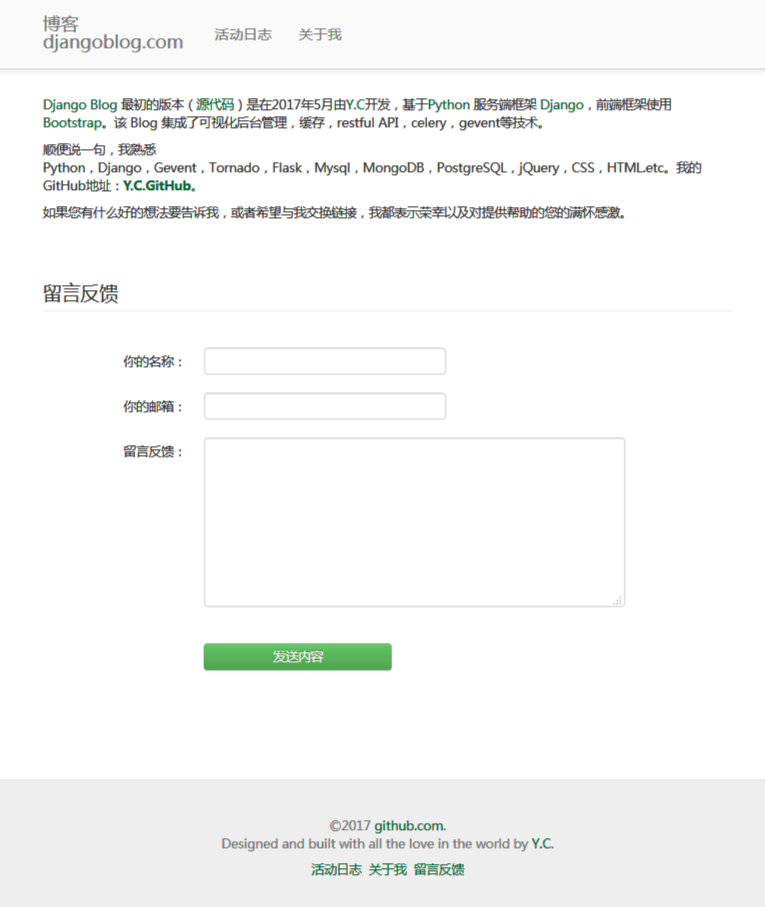
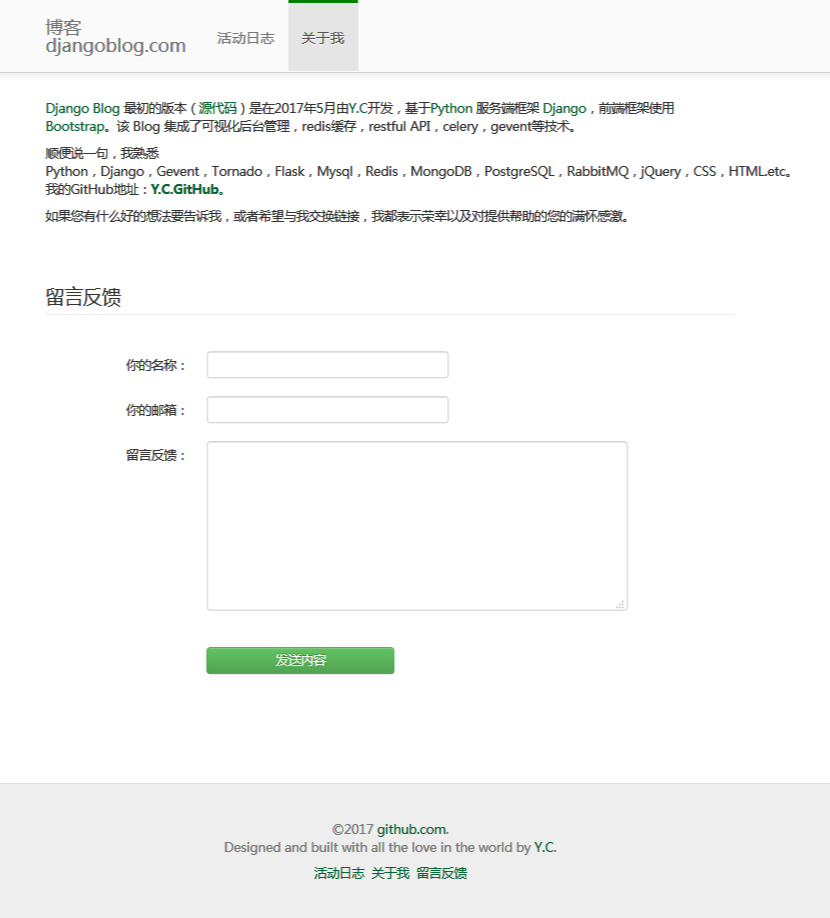
about

diff --git a/templates/blogview/about.html b/templates/blogview/about.html
@@ -26,11 +26,11 @@
                 <a href="http://djangoblog.com/">Django Blog </a>最初的版本（<a href="https://github.com/yc19890920/dblog" target="_blank" title="源代码">源代码</a>）是在2017年5月由<a>Y.C</a>开发，
                 基于<a href="http://python.org/" target="_blank" rel="external nofollow">Python</a> 服务端框架 <a href="https://www.djangoproject.com/" target="_blank" rel="external nofollow">Django</a>，
                 前端框架使用 <a href="http://getbootstrap.com/" target="_blank" rel="external nofollow">Bootstrap</a>。
-                该 Blog 集成了可视化后台管理，缓存，restful API，celery，gevent等技术。
+                该 Blog 集成了可视化后台管理，redis缓存，restful API，celery，gevent等技术。
             </p>
             <p>
-                顺便说一句，我熟悉Python，Django，Gevent，Tornado，Flask，Mysql，MongoDB，PostgreSQL，jQuery，CSS，HTML.etc。
-                我的GitHub地址：<a href="https://github.com/yc19890920?tab=repositories" target="_blank"><strong>Y.C.GitHub</strong>。</a>
+                顺便说一句，我熟悉Python，Django，Gevent，Tornado，Flask，Mysql，Redis，MongoDB，PostgreSQL，RabbitMQ，jQuery，CSS，HTML.etc。
+                我的GitHub地址：<a href="https://github.com/yc19890920?tab=repositories" target="_blank"><strong>Y.c.GitHub</strong>。</a>
             </p>
             <p>
                 如果您有什么好的想法要告诉我，或者希望与我交换链接，我都表示荣幸以及对提供帮助的您的满怀感激。
